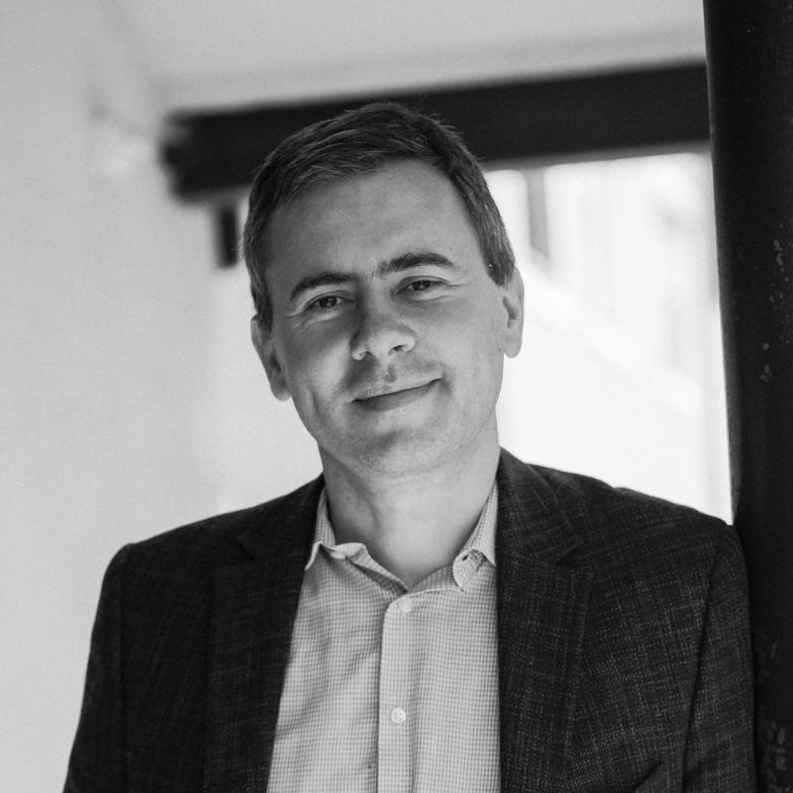
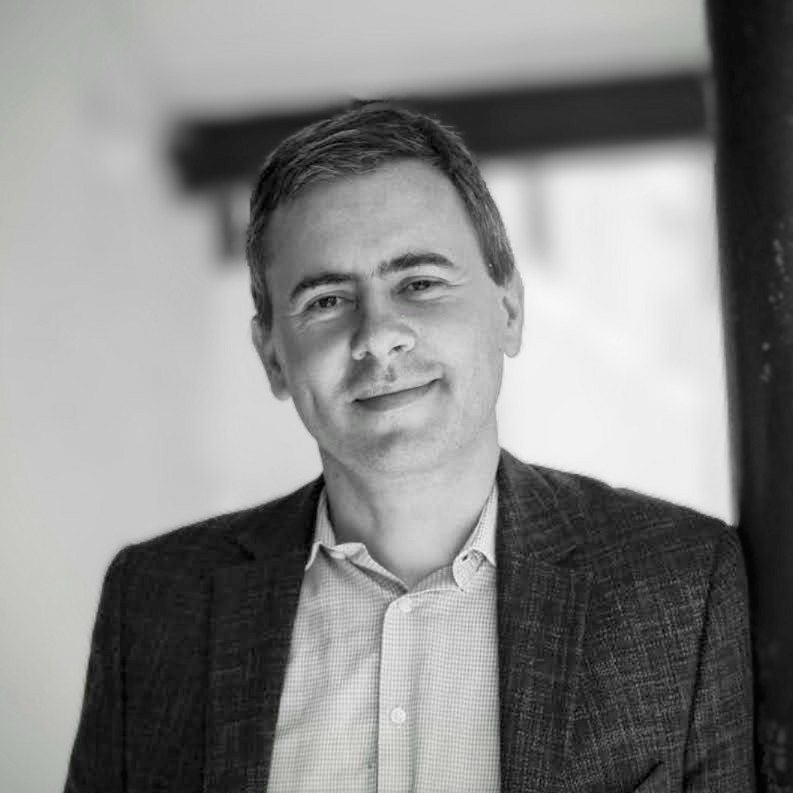
profile update

diff --git a/index.html b/index.html
@@ -44,7 +44,7 @@
     <main class="container mt-5 pt-5">
         <section id="about">
             <div class="profile-pic-container">
-                <img alt="Profile Picture" class="rounded-circle profile-pic" src="assets/image/profile_pic.JPG" />
+                <img alt="Profile Picture" class="rounded-circle profile-pic" src="assets/image/profile_pic_cb1.JPG" />
             </div>
             <div class="quotes-container mt-4" data-aos="fade-up">
                 <blockquote>

diff --git a/index_de.html b/index_de.html
@@ -42,7 +42,7 @@
     <main class="container mt-5 pt-5">
         <section id="about">
             <div class="profile-pic-container">
-                <img alt="Profile Picture" class="rounded-circle profile-pic" src="assets/image/profile_pic.JPG" />
+                <img alt="Profile Picture" class="rounded-circle profile-pic" src="assets/image/profile_pic_cb1.JPG" />
             </div>
             <div class="quotes-container mt-4" data-aos="fade-up">
                 <blockquote>

diff --git a/contact.html b/contact.html
@@ -93,7 +93,7 @@
                             <i class="fas fa-phone-square fa-2x"></i>
                         </div>
                         <div class="col-10 text-left align-middle">
-                            00385 99 265 63 98
+                            00385/99265 6398
                         </div>
                     </div>
                     <div class="row mb-4">

diff --git a/contact_de.html b/contact_de.html
@@ -70,7 +70,7 @@
                             <i class="fas fa-phone-square fa-2x"></i>
                         </div>
                         <div class="col-10 text-left align-middle">
-                            00385 99 265 63 98
+                            00385/99265 6398
                         </div>
                     </div>
                     <div class="row mb-4">
